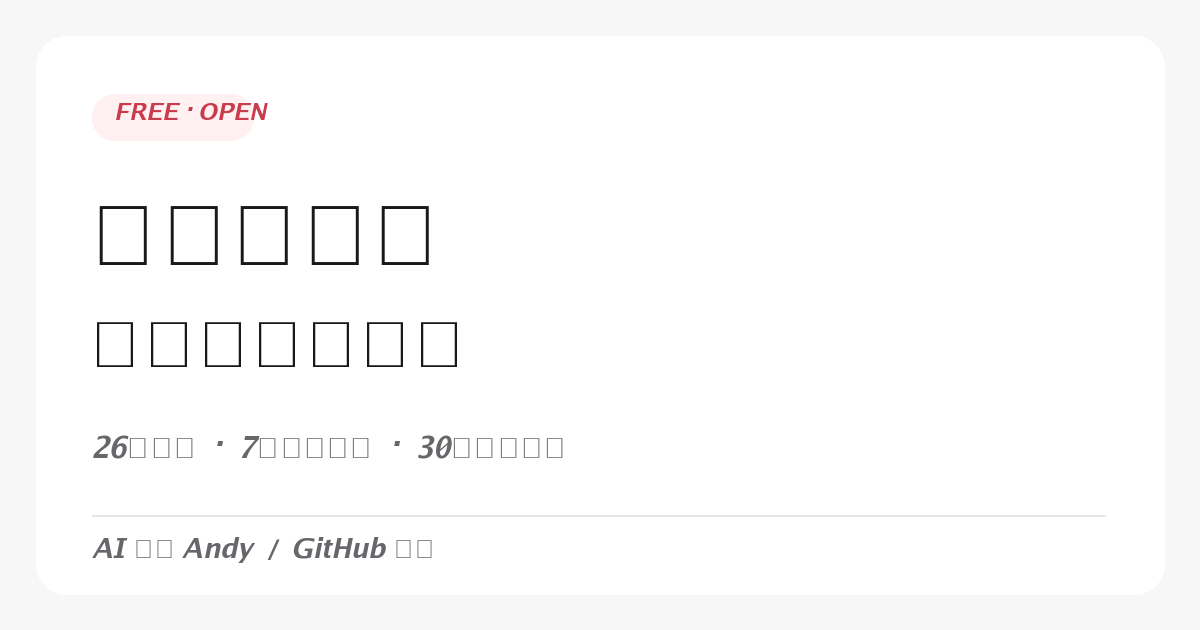
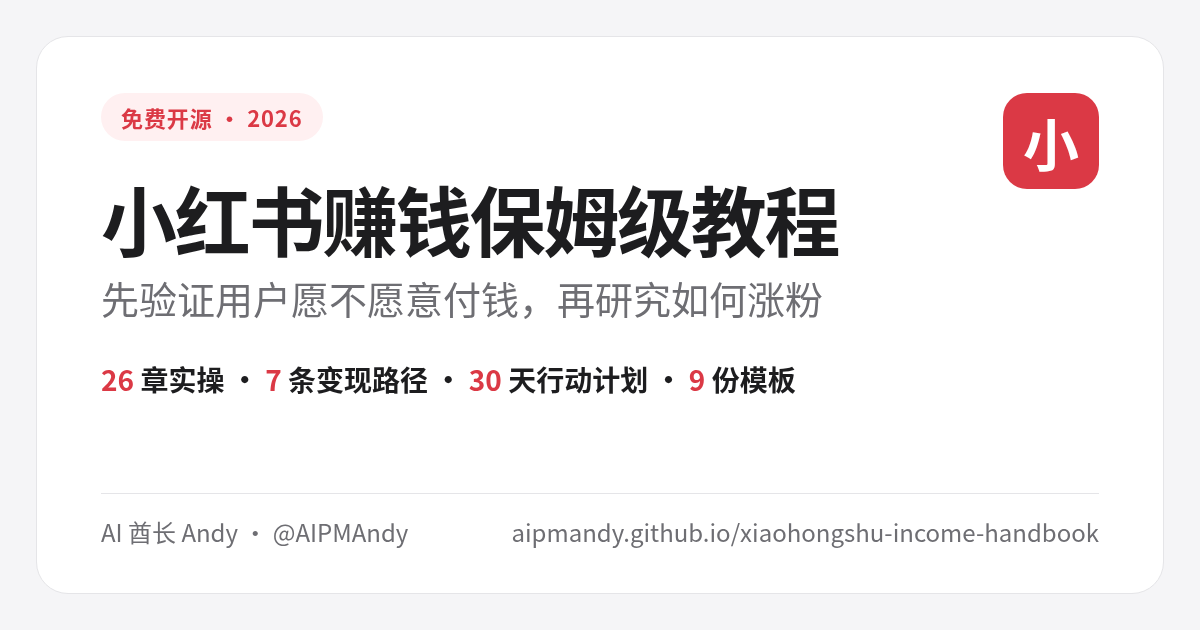
seo: real 1200x630 social preview, Twitter/OG meta, JSON-LD and sitemap lastmod

diff --git a/index.html b/index.html
@@ -12,6 +12,9 @@
 <meta content="https://aipmandy.github.io/xiaohongshu-income-handbook/assets/social-preview.png" property="og:image"/>
 <meta content="https://aipmandy.github.io/xiaohongshu-income-handbook/" property="og:url"/>
 <meta content="summary_large_image" name="twitter:card"/>
+<meta content="1200" property="og:image:width"/><meta content="630" property="og:image:height"/><meta content="小红书赚钱保姆级教程：26章实操、7条变现路径、30天行动计划" property="og:image:alt"/><meta content="zh_CN" property="og:locale"/>
+<meta content="@AIPMAndy" name="twitter:creator"/><meta content="小红书赚钱保姆级教程 · 从0到第一单" name="twitter:title"/><meta content="先验证愿不愿意付钱，再考虑如何涨粉。26章完整实操手册、30天计划、收入成本计算器。" name="twitter:description"/><meta content="https://aipmandy.github.io/xiaohongshu-income-handbook/assets/social-preview.png" name="twitter:image"/><meta content="index,follow,max-image-preview:large" name="robots"/><meta content="小红书赚钱,小红书变现,小红书副业,蒲公英商单,小红书开店,小红书买手,小红书教程,AI 酋长 Andy" name="keywords"/>
+<script type="application/ld+json">{"@context":"https://schema.org","@graph":[{"@type":"Person","@id":"https://github.com/AIPMAndy#person","name":"AI 酋长 Andy","alternateName":["Andy Liu","AIPMAndy","AI Chief Andy","AI酋长Andy"],"url":"https://metaver.vip/","sameAs":["https://x.com/AIPMAndy","https://github.com/AIPMAndy","https://metaver.vip/","https://t.me/AIPMAndy"],"jobTitle":"连续创业者（AI + 产品方法论），前腾讯/百度 AI 产品专家，大模型独角兽前 VP"},{"@type":"WebSite","@id":"https://aipmandy.github.io/xiaohongshu-income-handbook/#website","url":"https://aipmandy.github.io/xiaohongshu-income-handbook/","name":"小红书赚钱保姆级教程","description":"小红书赚钱保姆级教程（2026）：26章实操、7条变现路径、30天执行计划、路径选择器、漏斗诊断、真实利润计算器。真实案例与合规规则，免费开源。","inLanguage":"zh-CN","author":{"@id":"https://github.com/AIPMAndy#person"},"publisher":{"@id":"https://github.com/AIPMAndy#person"}},{"@type":"LearningResource","@id":"https://aipmandy.github.io/xiaohongshu-income-handbook/#handbook","name":"小红书赚钱保姆级教程（2026）","url":"https://aipmandy.github.io/xiaohongshu-income-handbook/","description":"小红书赚钱保姆级教程（2026）：26章实操、7条变现路径、30天执行计划、路径选择器、漏斗诊断、真实利润计算器。真实案例与合规规则，免费开源。","inLanguage":"zh-CN","learningResourceType":"教程","isAccessibleForFree":true,"license":"https://opensource.org/licenses/MIT","dateModified":"2026-10-24","author":{"@id":"https://github.com/AIPMAndy#person"},"image":"https://aipmandy.github.io/xiaohongshu-income-handbook/assets/social-preview.png"}]}</script>
 <link href="https://aipmandy.github.io/xiaohongshu-income-handbook/" rel="canonical"/>
 <link href="assets/style.css" rel="stylesheet"/>
 <link href="assets/favicon.svg" rel="icon" type="image/svg+xml"/></head>
